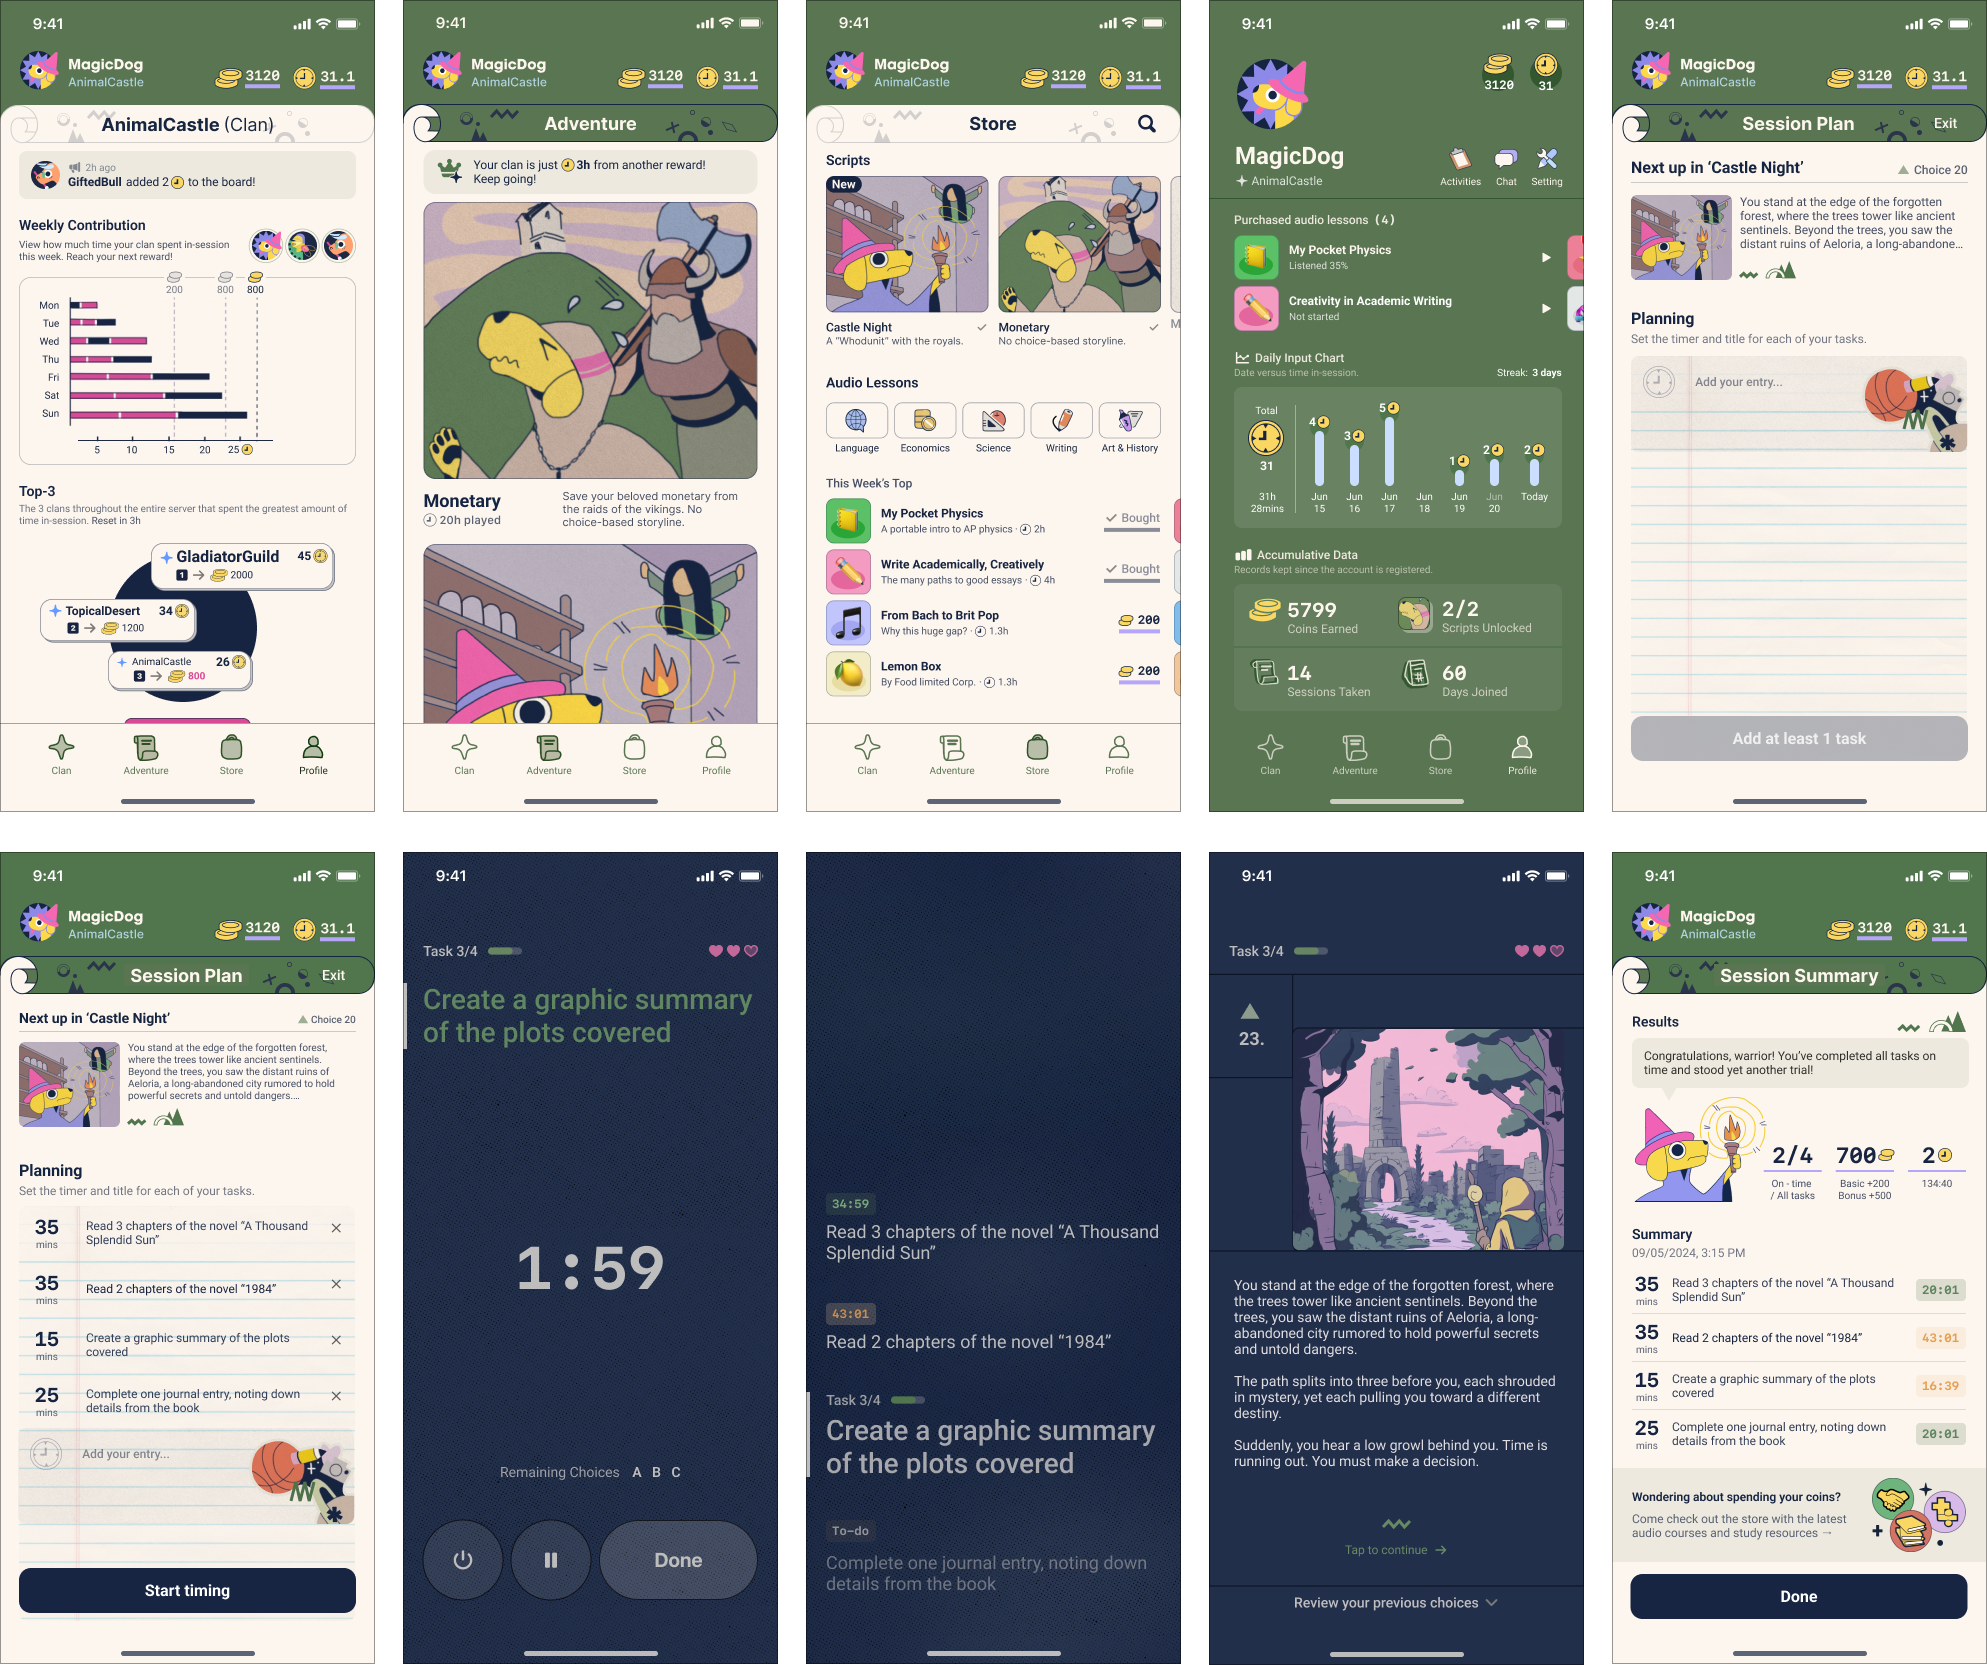
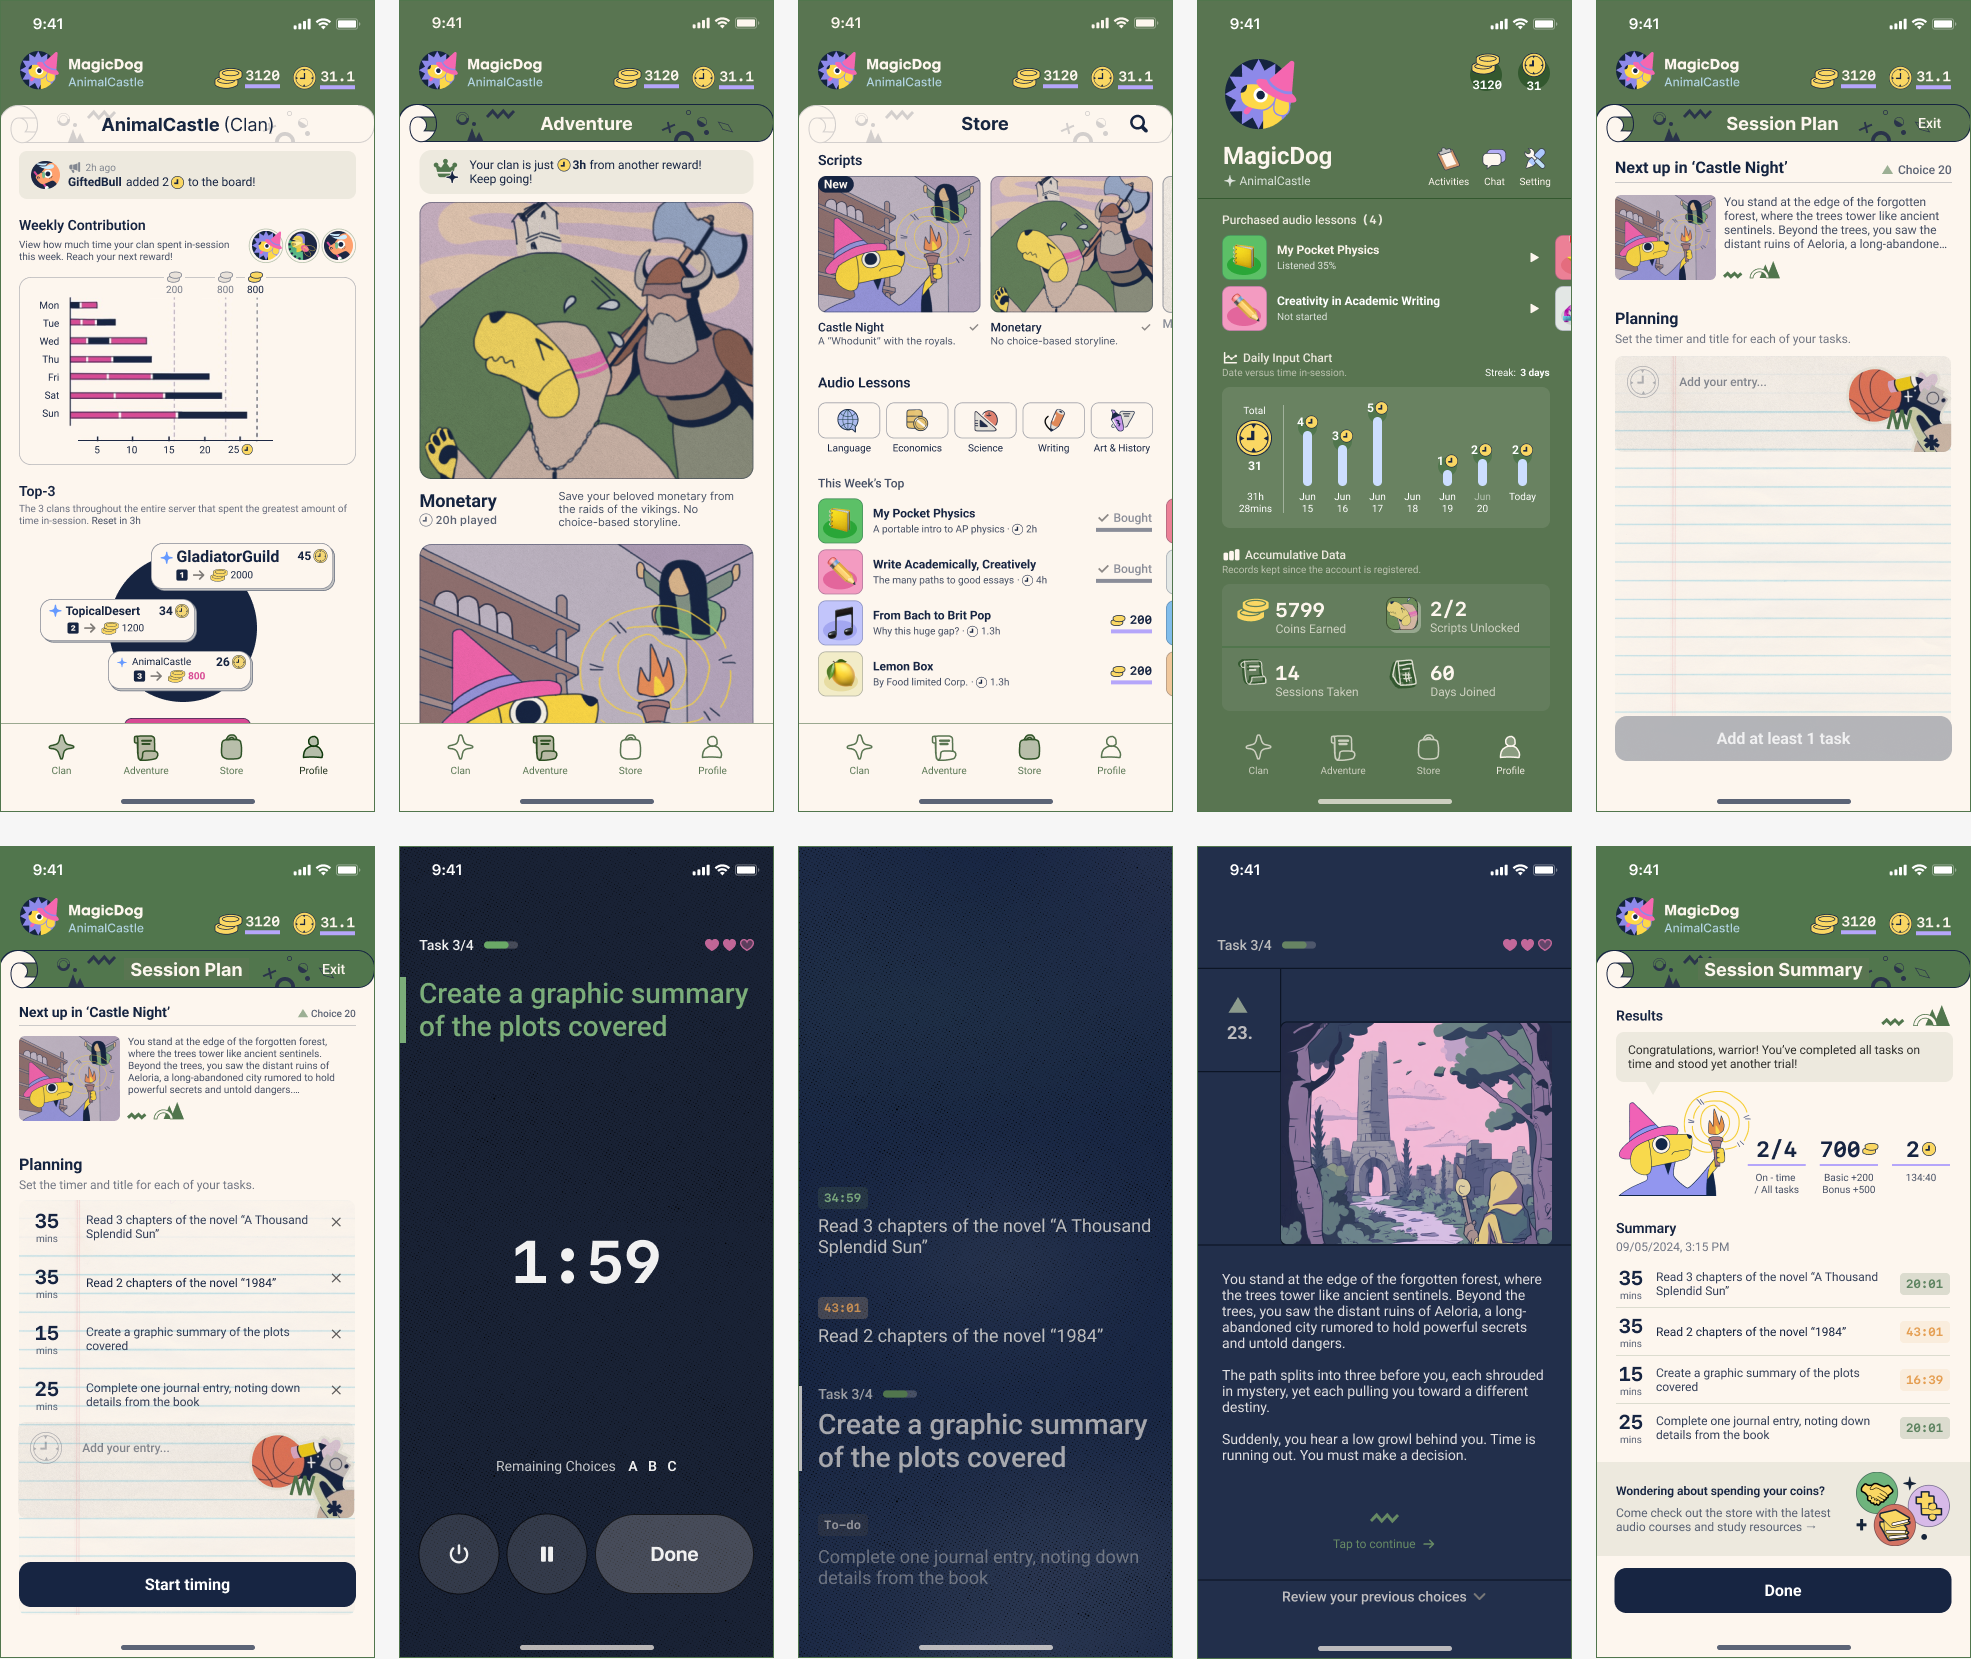
adventurer img adjustment

diff --git a/style-project.css b/style-project.css
@@ -257,7 +257,7 @@ h2{
 .main-projectpg.case-study-project .project-caption{
   position: relative;
   width: 100%;
-  max-width: 90ch;
+  max-width: 85ch;
 }
 
 .case-study-header{
@@ -312,13 +312,13 @@ h2{
   gap: 2rem;
   max-width: 60ch;
   margin-bottom: 2.5rem;
-  /* margin-inline: auto; */
+  margin-inline: auto;
 }
 
 .list-case-study-problems li{
   flex-direction: column;
   padding-left: 1.8rem;
-  border-left: 4px solid #8C87E6;
+  border-left: 3px solid #688960;
 }
 
 .list-case-study li h4{
@@ -339,9 +339,9 @@ h2{
 }
 
 .img-case-study-body{
-  width: 130%;
+  width: 120%;
   position: relative;
-  right: 15%;
+  right: 10%;
 }
 
 .product-highlight-entry{
@@ -399,8 +399,18 @@ h2{
   width: 100%;
 }
 
+.section-ui-design img{
+  width: 110%;
+  position: relative;
+  left: -5%;
+}
+
 .section-design-system img{
   width: 100%;
+}
+
+.img-mockup{
+  margin-top: 1.3rem;
 }
 
 .btn-back{

diff --git a/work-adventurer.html b/work-adventurer.html
@@ -169,10 +169,15 @@
                     </div>
                 </div>
             </section>
-            <section class="section-mockup">
-                <h3>Mockup</h3>
-                <img src="assets/adventurer-mockup.png" alt="hi-fi UI">
+            <section class="section-ui-design">
+                <h3>UI design</h3>
+                <img src="assets/adventurer full ui.png" alt="hi-fi UI">
+                <img src="assets/adventurer-mockup.png" class="img-mockup" alt="hi-fi UI">
             </section>
+            <!-- <section class="section-mockup">
+                <h3>Mockup</h3>
+                
+            </section> -->
             <section class="section-design-system">
                 <h3>Design system</h3>
                 <div class="wrapper-design-system">

diff --git a/style.css b/style.css
@@ -206,6 +206,11 @@ ul li{
     /* order: 2; */
 }
 
+.cards-single-column .card a:hover{
+    opacity: 0.95;
+    transition: opacity 300ms ease;
+}
+
 
 .card{
     display: flex;
